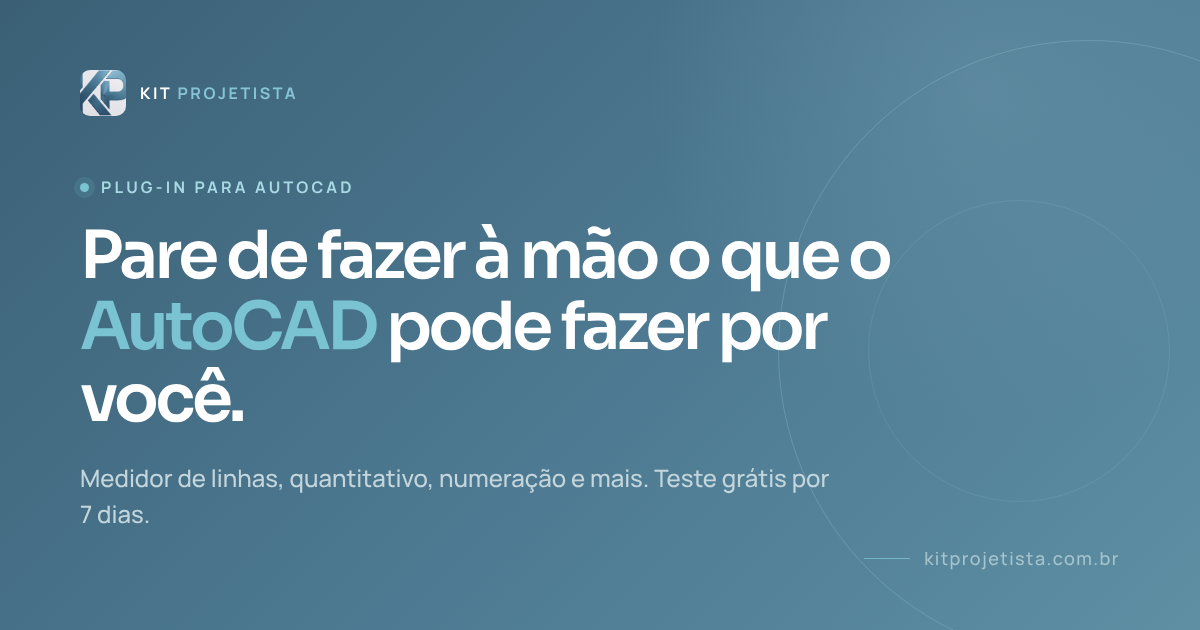
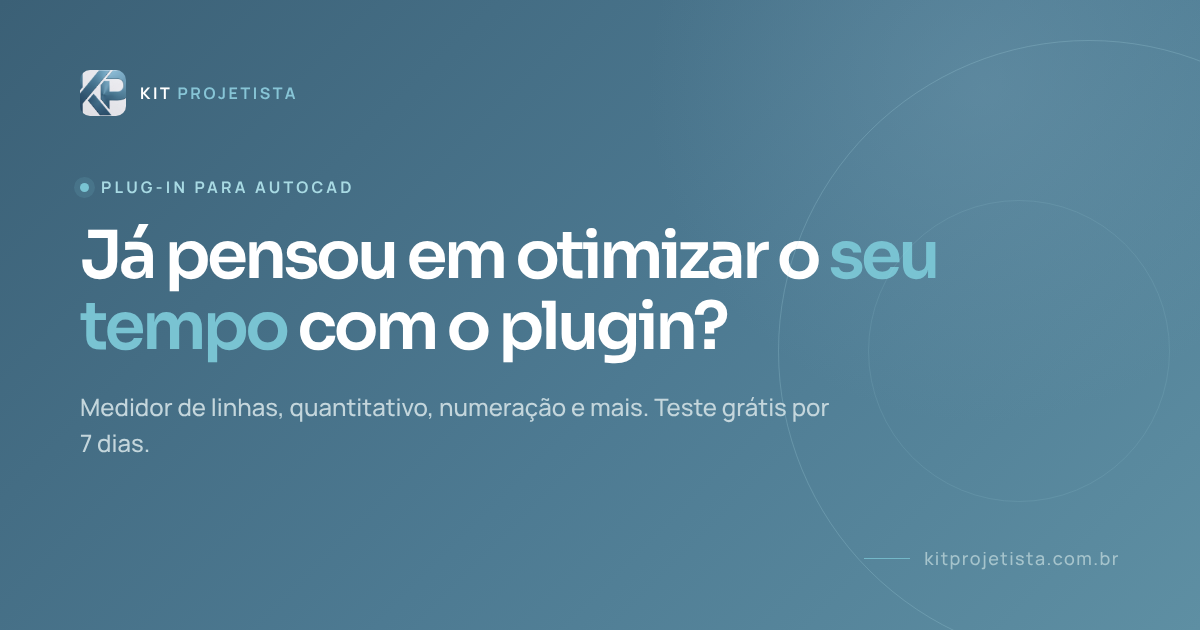
Inicial: nova frase de efeito e imagem de compartilhamento
Claude-Session: https://claude.ai/code/session_016u5aXWHJuTYTrvby2APkqJ

Changed region(s): [[0.0617, 0.3619, 0.8017, 0.7238], [0.0617, 0.754, 0.7092, 0.8444]]

diff --git a/src/paginas/Inicio.tsx b/src/paginas/Inicio.tsx
@@ -95,7 +95,7 @@ export default function Inicio() {
         <div className="hero-orbit orbit-one" />
         <div className="hero-orbit orbit-two" />
         <div className="eyebrow"><span className="eyebrow-dot" /> PLUG-IN PARA AUTOCAD</div>
-        <h1>Pare de fazer à mão o que o <em>AutoCAD</em> pode fazer por você.</h1>
+        <h1>Já pensou em otimizar o <em>seu tempo</em> com o plugin?</h1>
         <p className="hero-copy">O Kit Projetista transforma tarefas repetitivas em poucos cliques, para você projetar melhor e entregar mais.</p>
         <div className="hero-actions">
           <button className="button button-primary" onClick={() => setTesteAberto(true)}>
